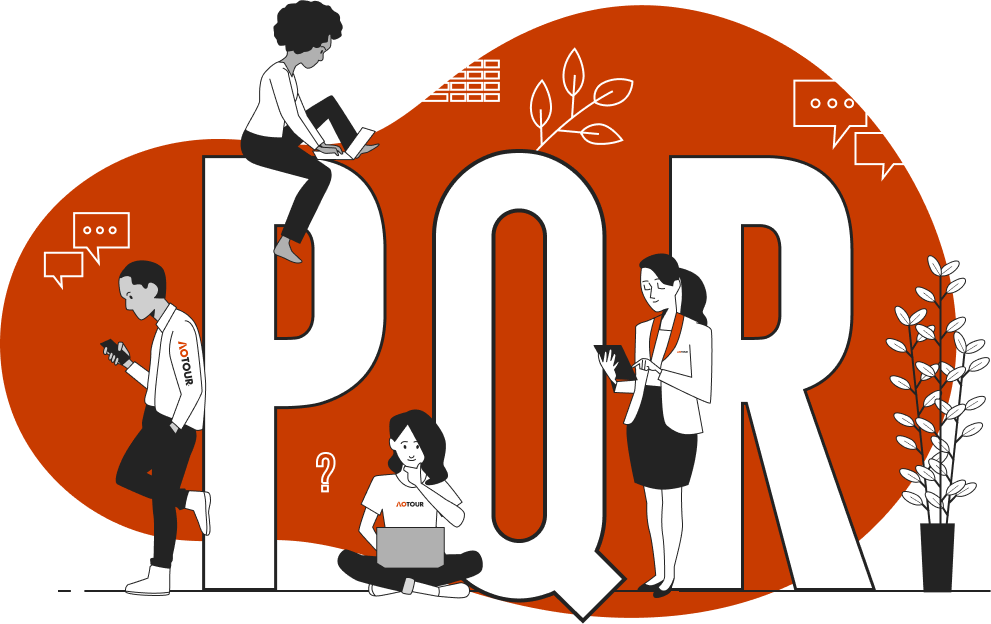
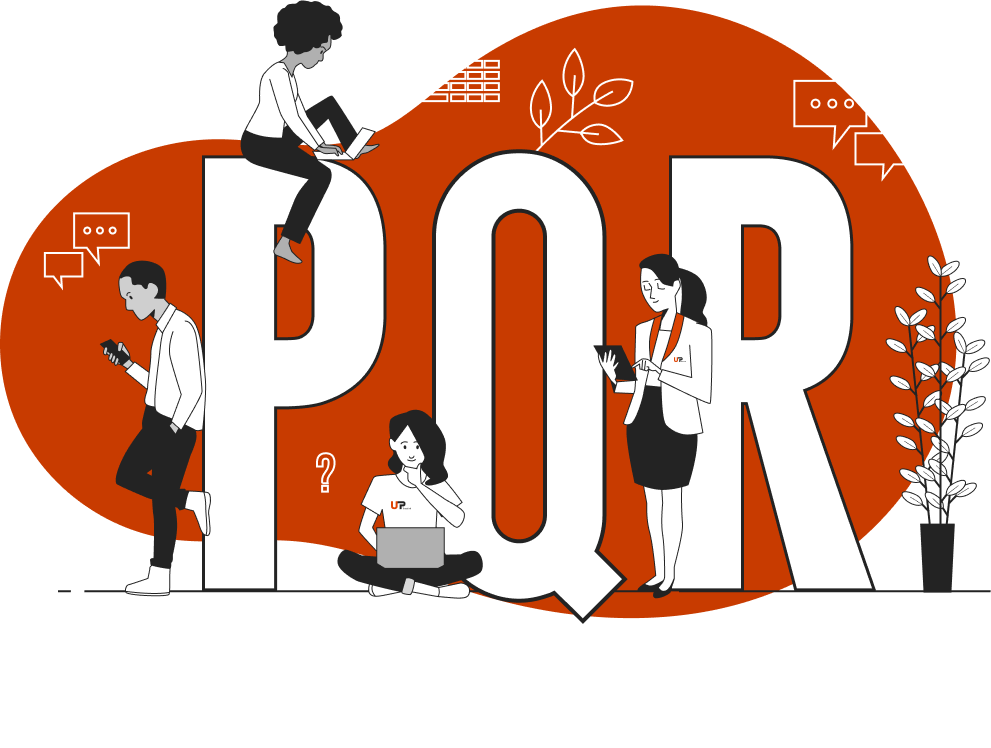
Cambios de imagenes de la pantalla de consultar PQR

diff --git a/src/app/pages/components/consult/consult.component.html b/src/app/pages/components/consult/consult.component.html
@@ -16,7 +16,7 @@
 
         <footer>
             <img class="img__logo" src="../../../../assets/img/fondo/logo.png" alt="">
-            <img class="img__footer" src="../../../../assets/img/fondo/logo-footer.png" alt="">
+            <!-- <img class="img__footer" src="../../../../assets/img/fondo/logo-footer.png" alt=""> -->
         </footer>
     </div>
 </section>

diff --git a/src/app/pages/principal.component.html b/src/app/pages/principal.component.html
@@ -43,6 +43,6 @@
 
         <img src="../../assets/img/fondo/Group 1000004174.png" alt="">
 
-        <span>Business and Transport Travel Management Company</span>
+        <!-- <span>Business and Transport Travel Management Company</span> -->
     </section>
 </section>
